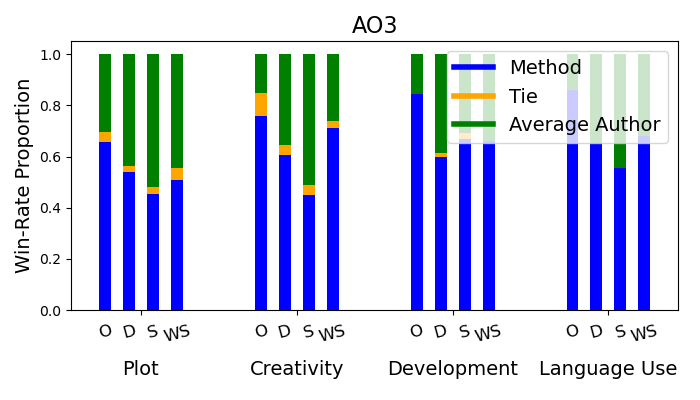
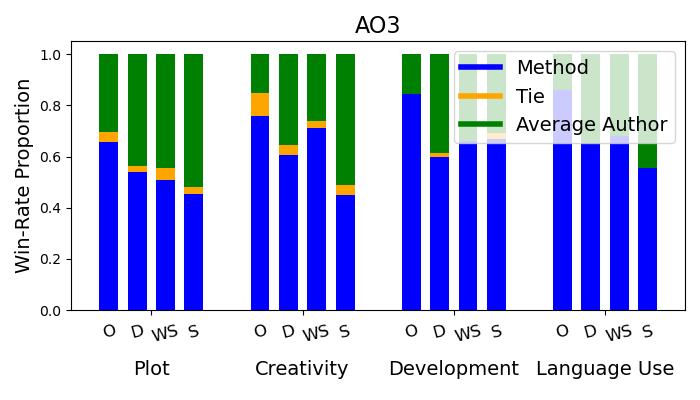
update graphs

diff --git a/evaluation/consolidate_results.py b/evaluation/consolidate_results.py
@@ -104,7 +104,7 @@ def get_catwise_winners(source_data, faith=False):
 
 def create_graph(method_source_wise_results, output_dir):
     # Specify methods to compare
-    methods_to_compare = ["oracle", "delta", "schema_persona", "delta_schema_persona"]
+    methods_to_compare = ["oracle", "delta", "delta_schema_persona", "schema_persona"]
     # define method alias
     method_alias = {"oracle": "O", "delta_schema_persona": "WS", "schema_persona": "S", "delta": "D"}
     # source alias
@@ -140,8 +140,8 @@ def create_graph(method_source_wise_results, output_dir):
 
         # Initialize bar data
         bar_width = 0.05  # Reduce bar width to make bars narrower
-        gap_width = 0.05  # Gap between methods
-        x = np.arange(len(categories)) * 0.65  # Position of categories
+        gap_width = 0.025  # Gap between methods
+        x = np.arange(len(categories)) * 0.40  # Position of categories
 
         # Plot setup
         fig, ax = plt.subplots(figsize=(7, 4))
